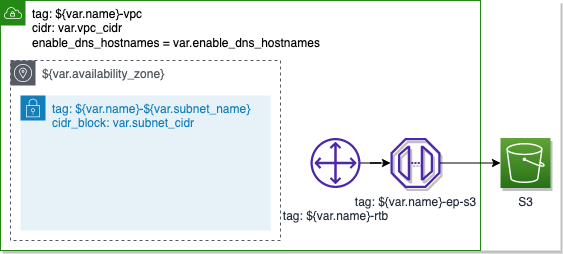
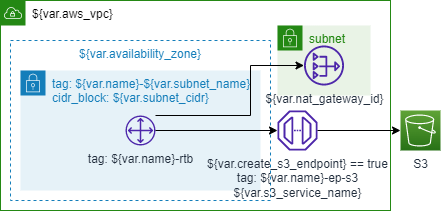
画像修正

diff --git a/aws/vpc/README.md b/aws/vpc/README.md
@@ -2,6 +2,8 @@
 
 ## VPC
 
+![vpc](./_img/vpc.png)
+
 ### Variables
 
 | Varriable Name       | Default | Description    |
@@ -18,7 +20,7 @@
 
 ## Public Subnet
 
-![public_vpc](../_img/public_vpc.png)
+![public_vpc](./_img/public_vpc.png)
 
 ### Variables
 
@@ -40,7 +42,7 @@
 
 ## Private Subnet
 
-![private_vpc](../_img/private_vpc.png)
+![private_vpc](./_img/private_vpc.png)
 
 ### Variables
 
